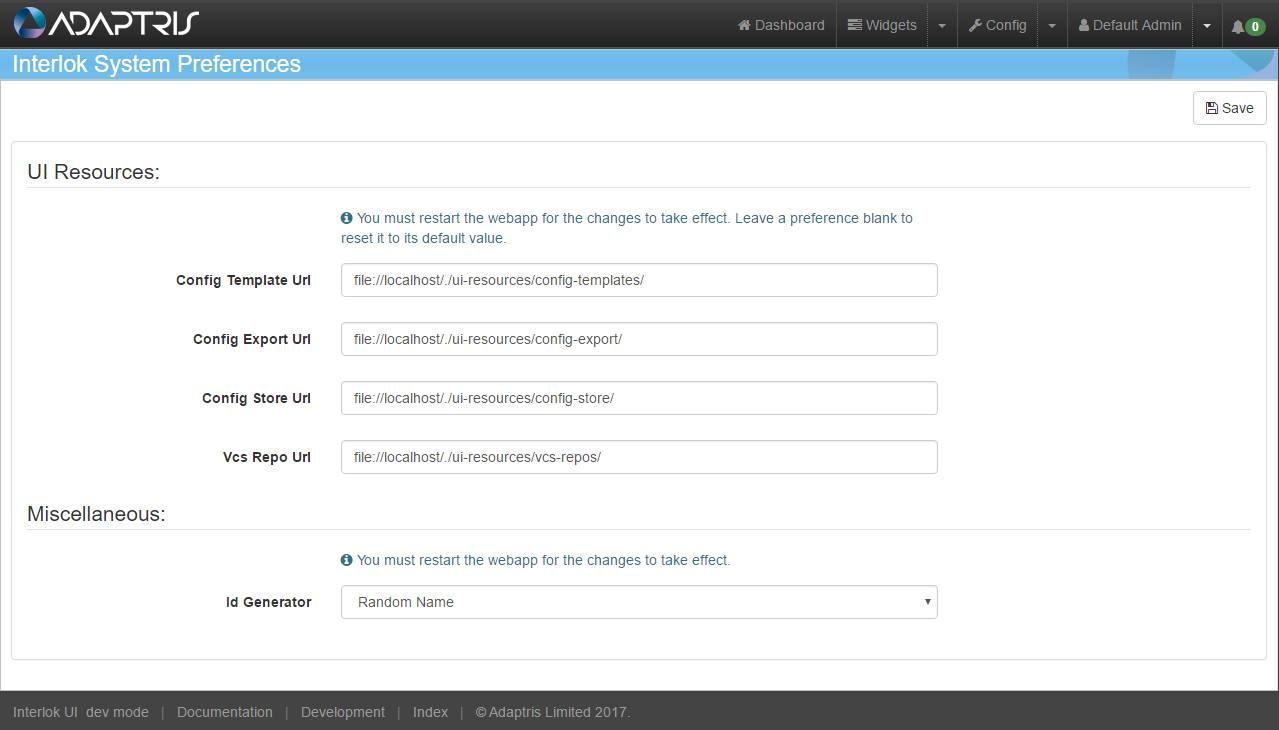
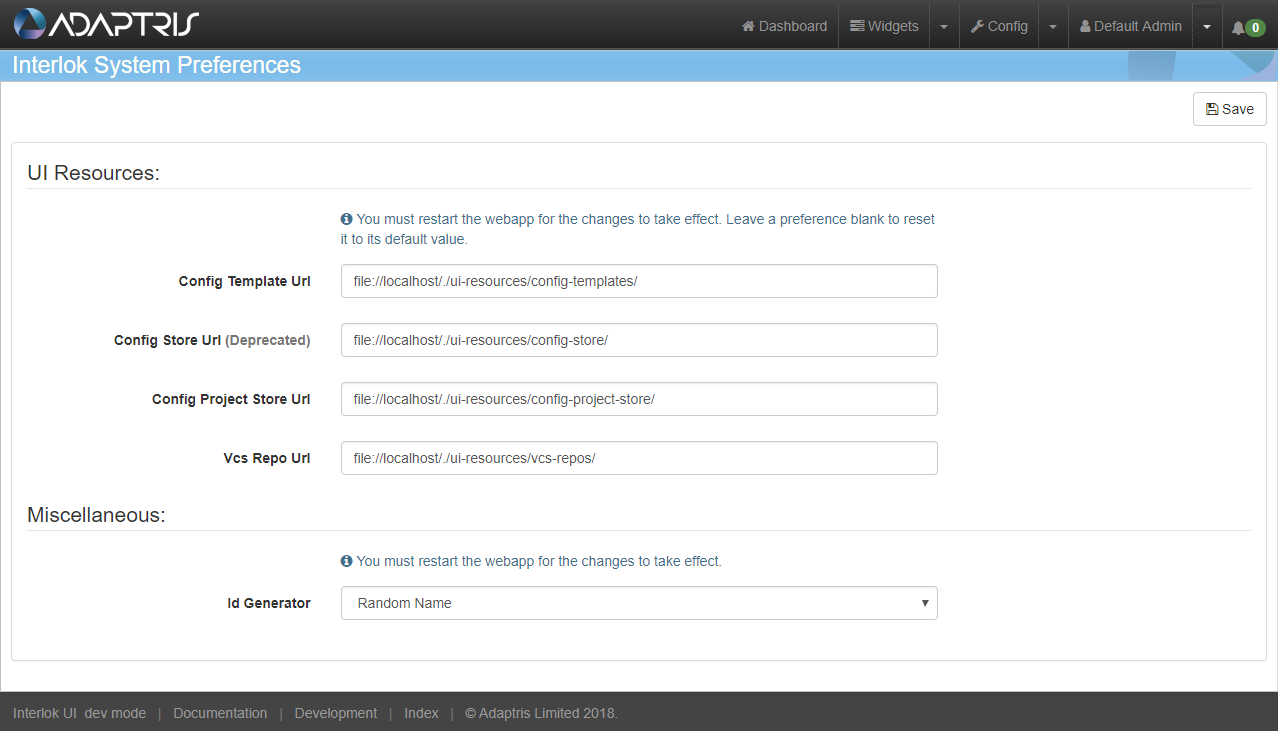
Add doc for the config apply and update doc for the system preferences.

diff --git a/pages/ui/ui-config.md b/pages/ui/ui-config.md
@@ -108,7 +108,6 @@ This component is a typical example and shows:
 - **Copy:** You can use this function to copy this component to the pages clipboard. You can hold 1 of each component type in the clipboard, which can then be used to Paste it to a given applicable area.
 - **Cut:** As copy, but on a Paste command, this would remove the source component.
 
-
 ## Delete component features ##
 
 To delete a given component, you would click on the trash can icon ![Config page delete component action button](./images/ui-user-guide/config-workflow-bar-action-delete.png){: .inline }  that's either in the header bar of that components area or if you hover over a given component it will present itself. Clicking on the trash can would therefore remove that component from the config.
@@ -144,6 +143,20 @@ To actually add the component, all you have to do is click on the required compo
 {% include tip.html content="When adding a service if you double click on the plus button the service will be added at the beginning of the service list." %}
 
 {% include note.html content="From 3.6.6 you can also add new component using the [Config page sidebar component](ui-config-sidebar.html#clipboard-sidebar)." %}
+
+## Applying a configuration ##
+
+To apply the current config to a running adapter you will simply need to click on the Apply Config button from the header action bar. ![Config page action bar apply config](./images/ui-user-guide/config-action-bar-apply-config.png) 
+
+This will open a modal where you can select which adapter you want to apply the config to and, optionally, which variable set you want to use for this adapter.
+
+![Config apply confirm modal](./images/ui-user-guide/config-apply-confirm-modal.png)
+
+Then you just need to click on Ok and the apply process will start. Another modal will be displayed to show you the status of each step of the apply process.
+
+![Config apply status modal](./images/ui-user-guide/config-apply-status-modal.png)
+
+If there is any error during the process they will be displayed in the main page.
 
 ## Settings editor features ##
 

diff --git a/pages/ui/ui-system-preferences.md b/pages/ui/ui-system-preferences.md
@@ -16,8 +16,9 @@ You can access the System Preferences page by clicking on the down arrow next to
 The system preferences are:
 
 - **Config Template Url:** Directory where are located the UI templates used in the configuration page.
-- **Config Export Url:** Directory where adapter configuration file get exported. The export is done in the configuration page.
+- **Config Export Url:** Directory where adapter configuration file get exported. The export is done in the configuration page. (Removed Since 3.7.1)
 - **Config Store Url:** Directory where configurations are saved (and auto saved).
+- **Config Project Store Url:** Directory where configurations projets are saved (and auto saved) (Since 3.7.0).
 - **Vcs Repo Url:** Directory where all the VCS (Suversion, Git) repositories get stored.
 - **Id Generator:** Random Id generator strategy for new component in the configuration page: (Since 3.5.0)
     - **Random Name:** The generated Id will be a mix of a random famous scientist surname and a random adjective, e.g. amazing-darwin. (Default Since 3.5.1)

diff --git a/pages/ui/ui-config-sidebar.md b/pages/ui/ui-config-sidebar.md
@@ -36,6 +36,7 @@ The components are organised into three different categories:
     - **Deprecated:** The list of deprecated component for the current version of the UI.
 	It is advised to avoid using deprecated component as they may be removed in following releases.
     - **Popular:** List some popular components.
+    - **Since:** List components since the selected version. Only components marked with the since annotation will be listed. This is a new feature so a limited amount of components will be listed.
   - **By Tag:** You can select a tag in the dropdown and that will display all the components attached to this tag.
   A search bar is available when the list has more than ten components.
   - **By Type:** You can select a component type in the dropdown and that will display all the component and templates available in the UI for this type.
